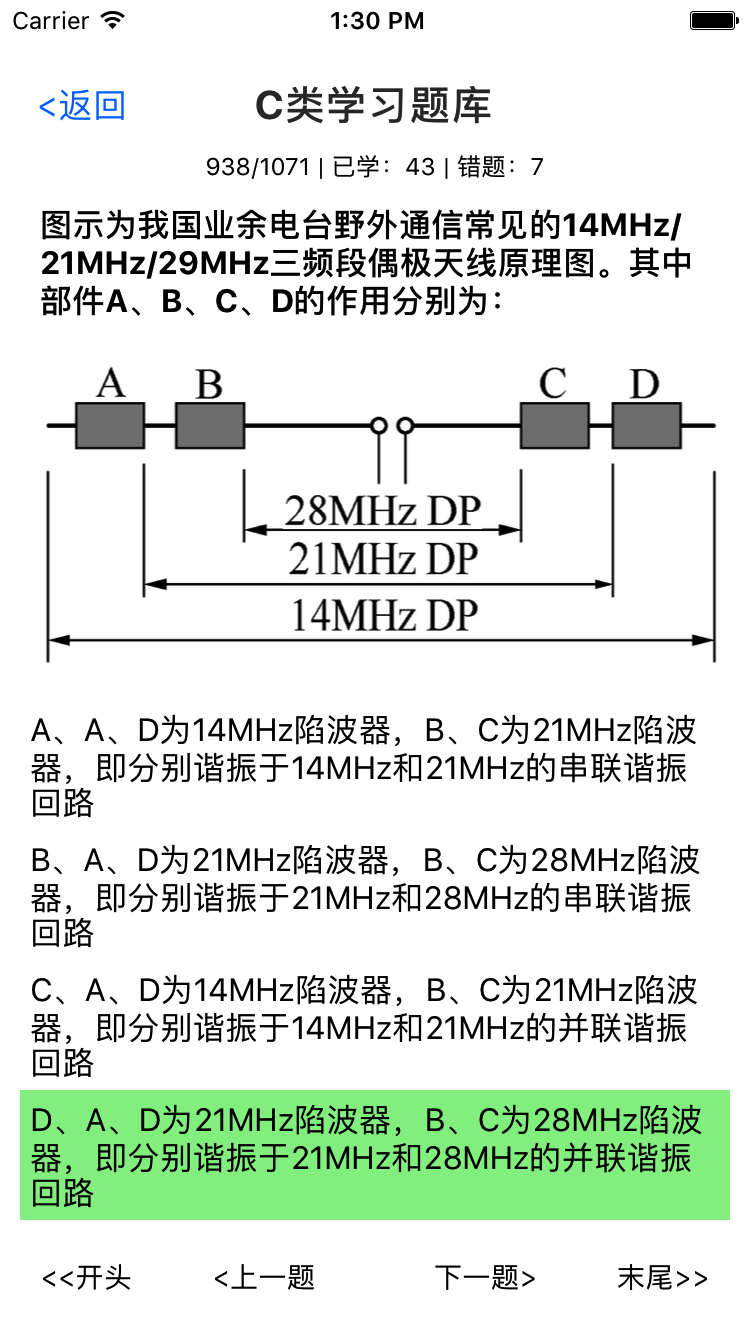
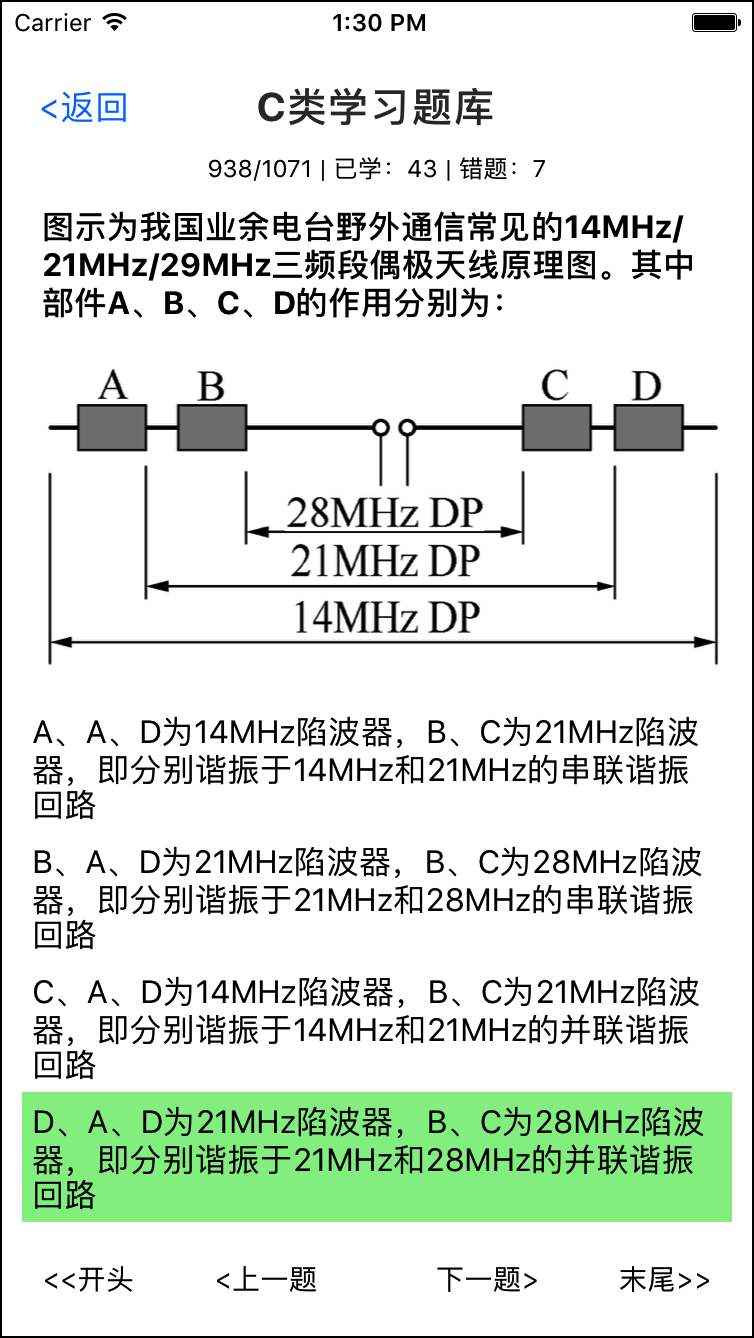
调整截图的显示比例，并添加边框。

diff --git a/README.md b/README.md
@@ -15,29 +15,29 @@
 
 ### 首页
 
-![首页](screenshots/home.png)
+<img alt="首页" src="screenshots/home.png" width="50%" height="50%"/>
 
 ### C类
 
-![C类](screenshots/level-c.png)
+<img alt="C类" src="screenshots/level-c.png" width="50%" height="50%"/>
 
 ### 学习
 
-![C类学习](screenshots/level-c-study.png)
+<img alt="C类学习" src="screenshots/level-c-study.png" width="50%" height="50%"/>
 
-![E学习](screenshots/level-e-study.png)
+<img alt="E学习" src="screenshots/level-e-study.png" width="50%" height="50%"/>
 
 ### 练习错题
 
-![练习错题](screenshots/level-c-review.png)
+<img alt="练习错题" src="screenshots/level-c-review.png" width="50%" height="50%"/>
 
 ### 模拟考试
 
-![模拟考试](screenshots/level-c-exam.png)
+<img alt="模拟考试" src="screenshots/level-c-exam.png" width="50%" height="50%"/>
 
 ### 题库版本
 
-![题库版本](screenshots/libs-version.png)
+<img alt="题库版本" src="screenshots/libs-version.png" width="50%" height="50%"/>
 
 ## 开发
 
